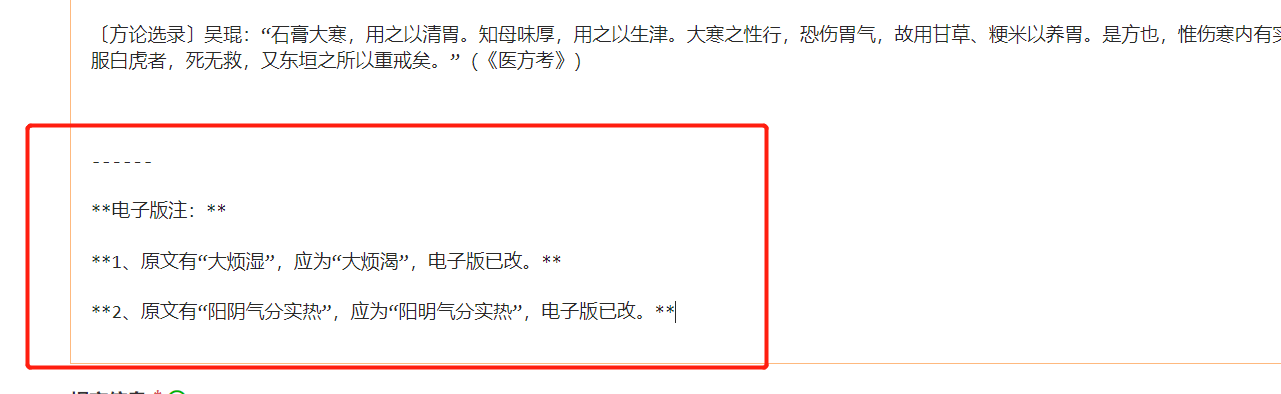
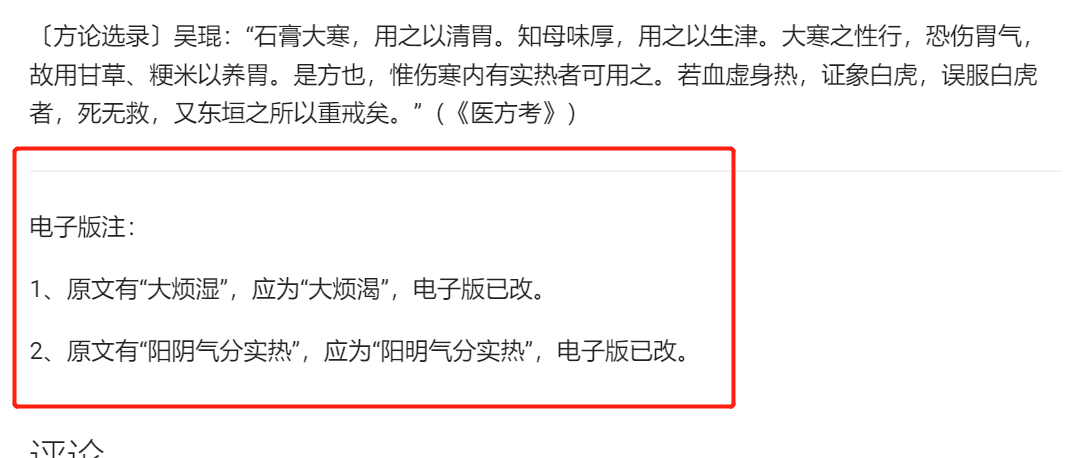
2

Changed region(s): [[0.0, 0.3046, 0.6875, 1.0], [0.0312, 0.0305, 1.0, 0.2741]]

diff --git a/ok/gmjcintro/guifan.md b/ok/gmjcintro/guifan.md
@@ -60,6 +60,18 @@ Typora 官网：https://typora.io/
 
 教材原文如有明显文字错误，可以修改。但改后，在文件的末尾加上如下说明：
 
+```
+------
+
+电子版注：
+
+1、原文有“大烦湿”，应为“大烦渴”，电子版已改。
+
+2、原文有“阳阴气分实热”，应为“阳明气分实热”，电子版已改。
+
+```
+显示效果如下：
+
 ![](img/guifan2.png)
 
 **10、易经六十四卦unicode字符**
